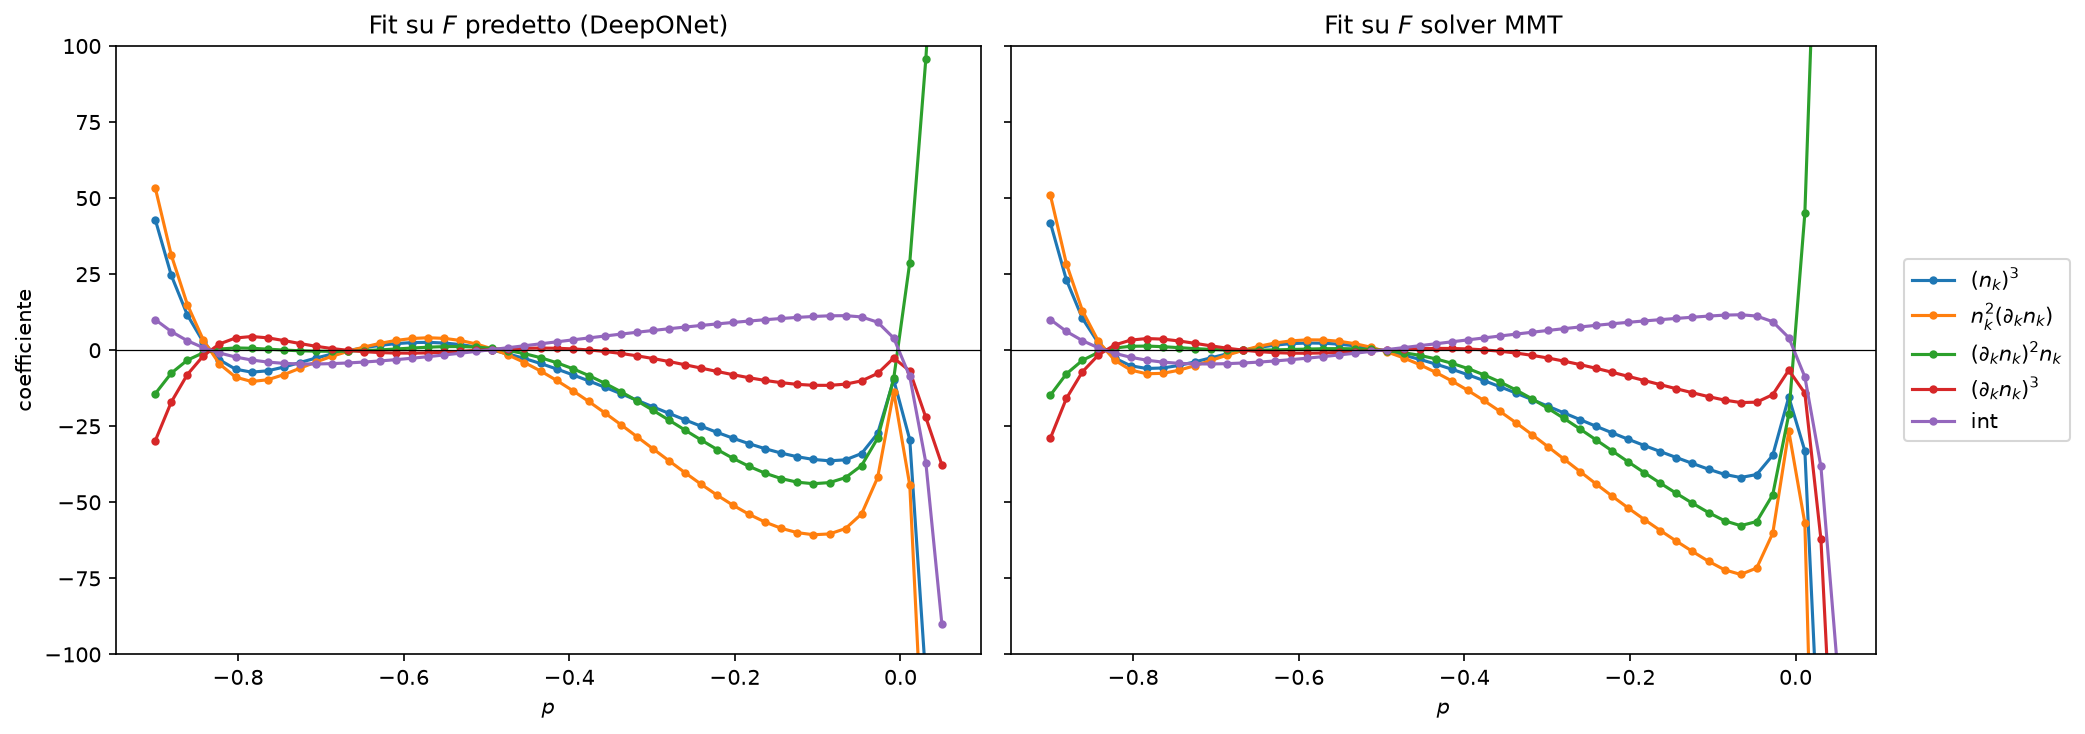
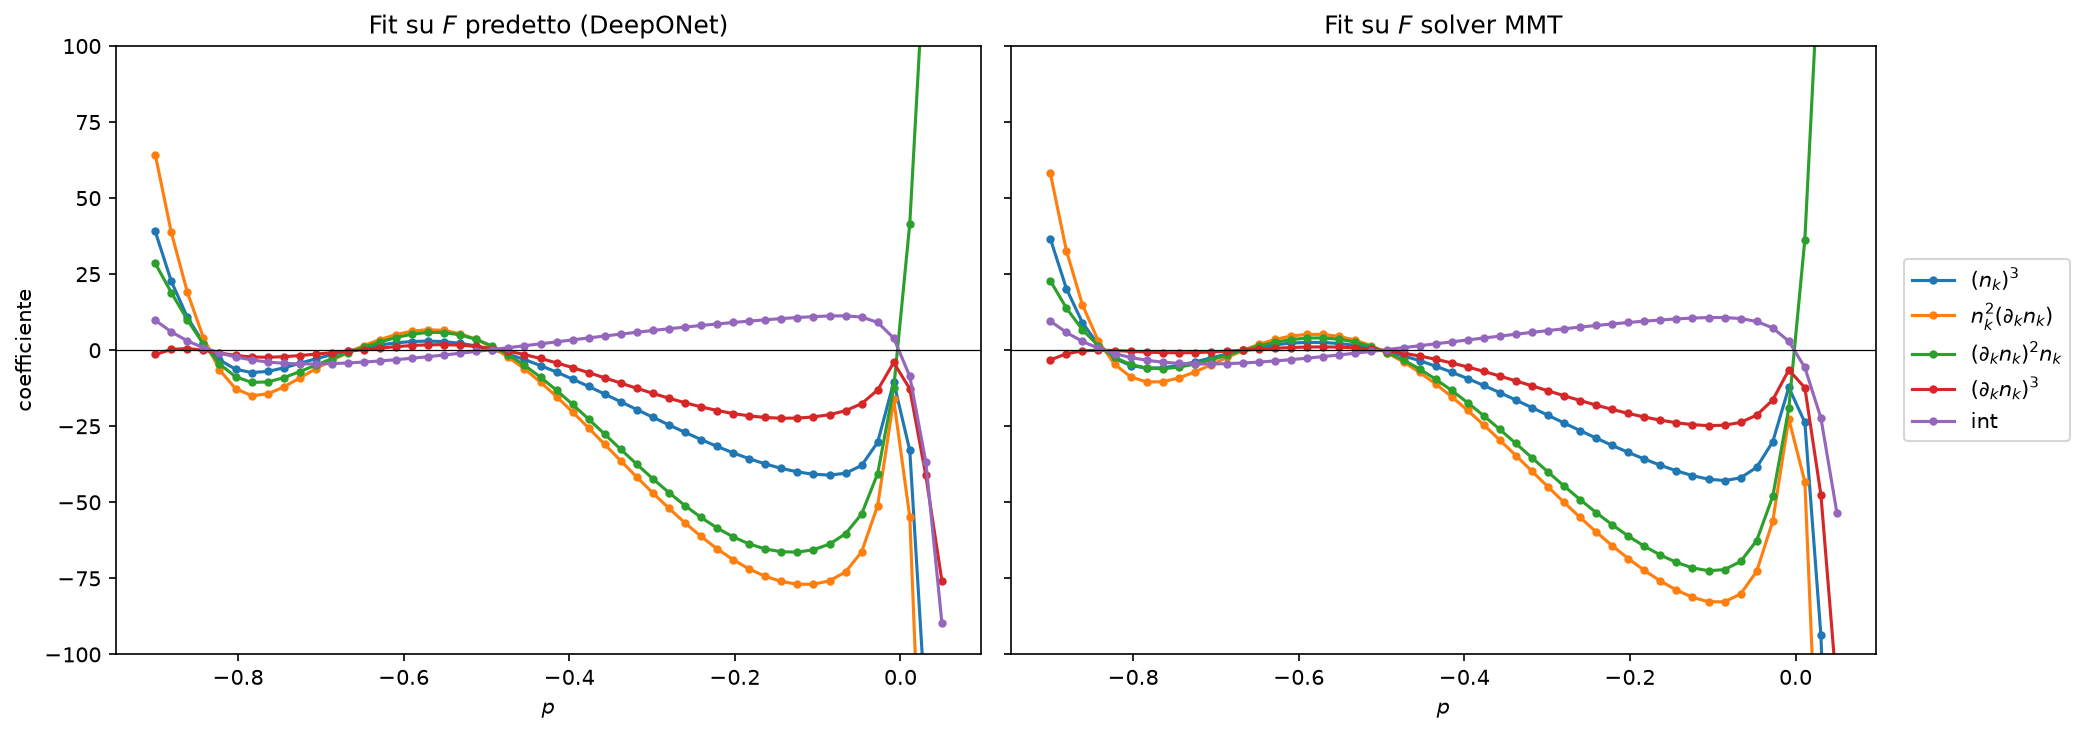
refactor: update coefficient plotting parameters and enhance output resolution in main_mmt.py

diff --git a/main_mmt.py b/main_mmt.py
@@ -50,18 +50,18 @@ test_data = splits["test"]
 
 plot_coefficients_vs_p(
     model, sensor_grid=data["sensor_grid"], ps=np.linspace(-0.9, 0.05, 50), A=1.0,
-    k_c_values=np.linspace(0.1, 1.0, 20),beta=0.25, N=900, IntN=600, max_order=3,
+    k_c_values=np.linspace(0.1, 1.0, 50),beta=0.25, N=300, IntN=200, max_order=3,
     save_path="outputs_mmt/coefficients_vs_p_mmt.png", show=False
 )
 
 (coef_p, int_p, r2_p), (coef_e, int_e, r2_e) = fit_operators_at_fixed_p(
     model, sensor_grid=data["sensor_grid"], p=-5/6, A=1, 
-    k_c_values=np.linspace(0.1, 1.0, 20), beta=0.25, N=900, IntN=600, max_order=3,
+    k_c_values=np.linspace(0.1, 1.0, 50), beta=0.25, N=300, IntN=200, max_order=3,
     ridge_alpha=1e-3)
 
 print("Coefficienti (DeepONet):", coef_p, "| intercetta:", int_p, "| R^2:", r2_p)
 print("Coefficienti (solver MMT):", coef_e, "| intercetta:", int_e, "| R^2:", r2_e)
 
-plot_flux_reconstructed(model, sensor_grid=data["sensor_grid"], k_c_values=np.linspace(0.1, 1.0, 20),
-                        p=-5/6, A=1, beta=0.25, N=900, IntN=600, max_order=3, 
+plot_flux_reconstructed(model, sensor_grid=data["sensor_grid"], k_c_values=np.linspace(0.1, 1.0, 50),
+                        p=-5/6, A=1, beta=0.25, N=300, IntN=200, max_order=3, 
                         save_path="outputs_mmt/reconstructed_flux_mmt.png", show=False)
